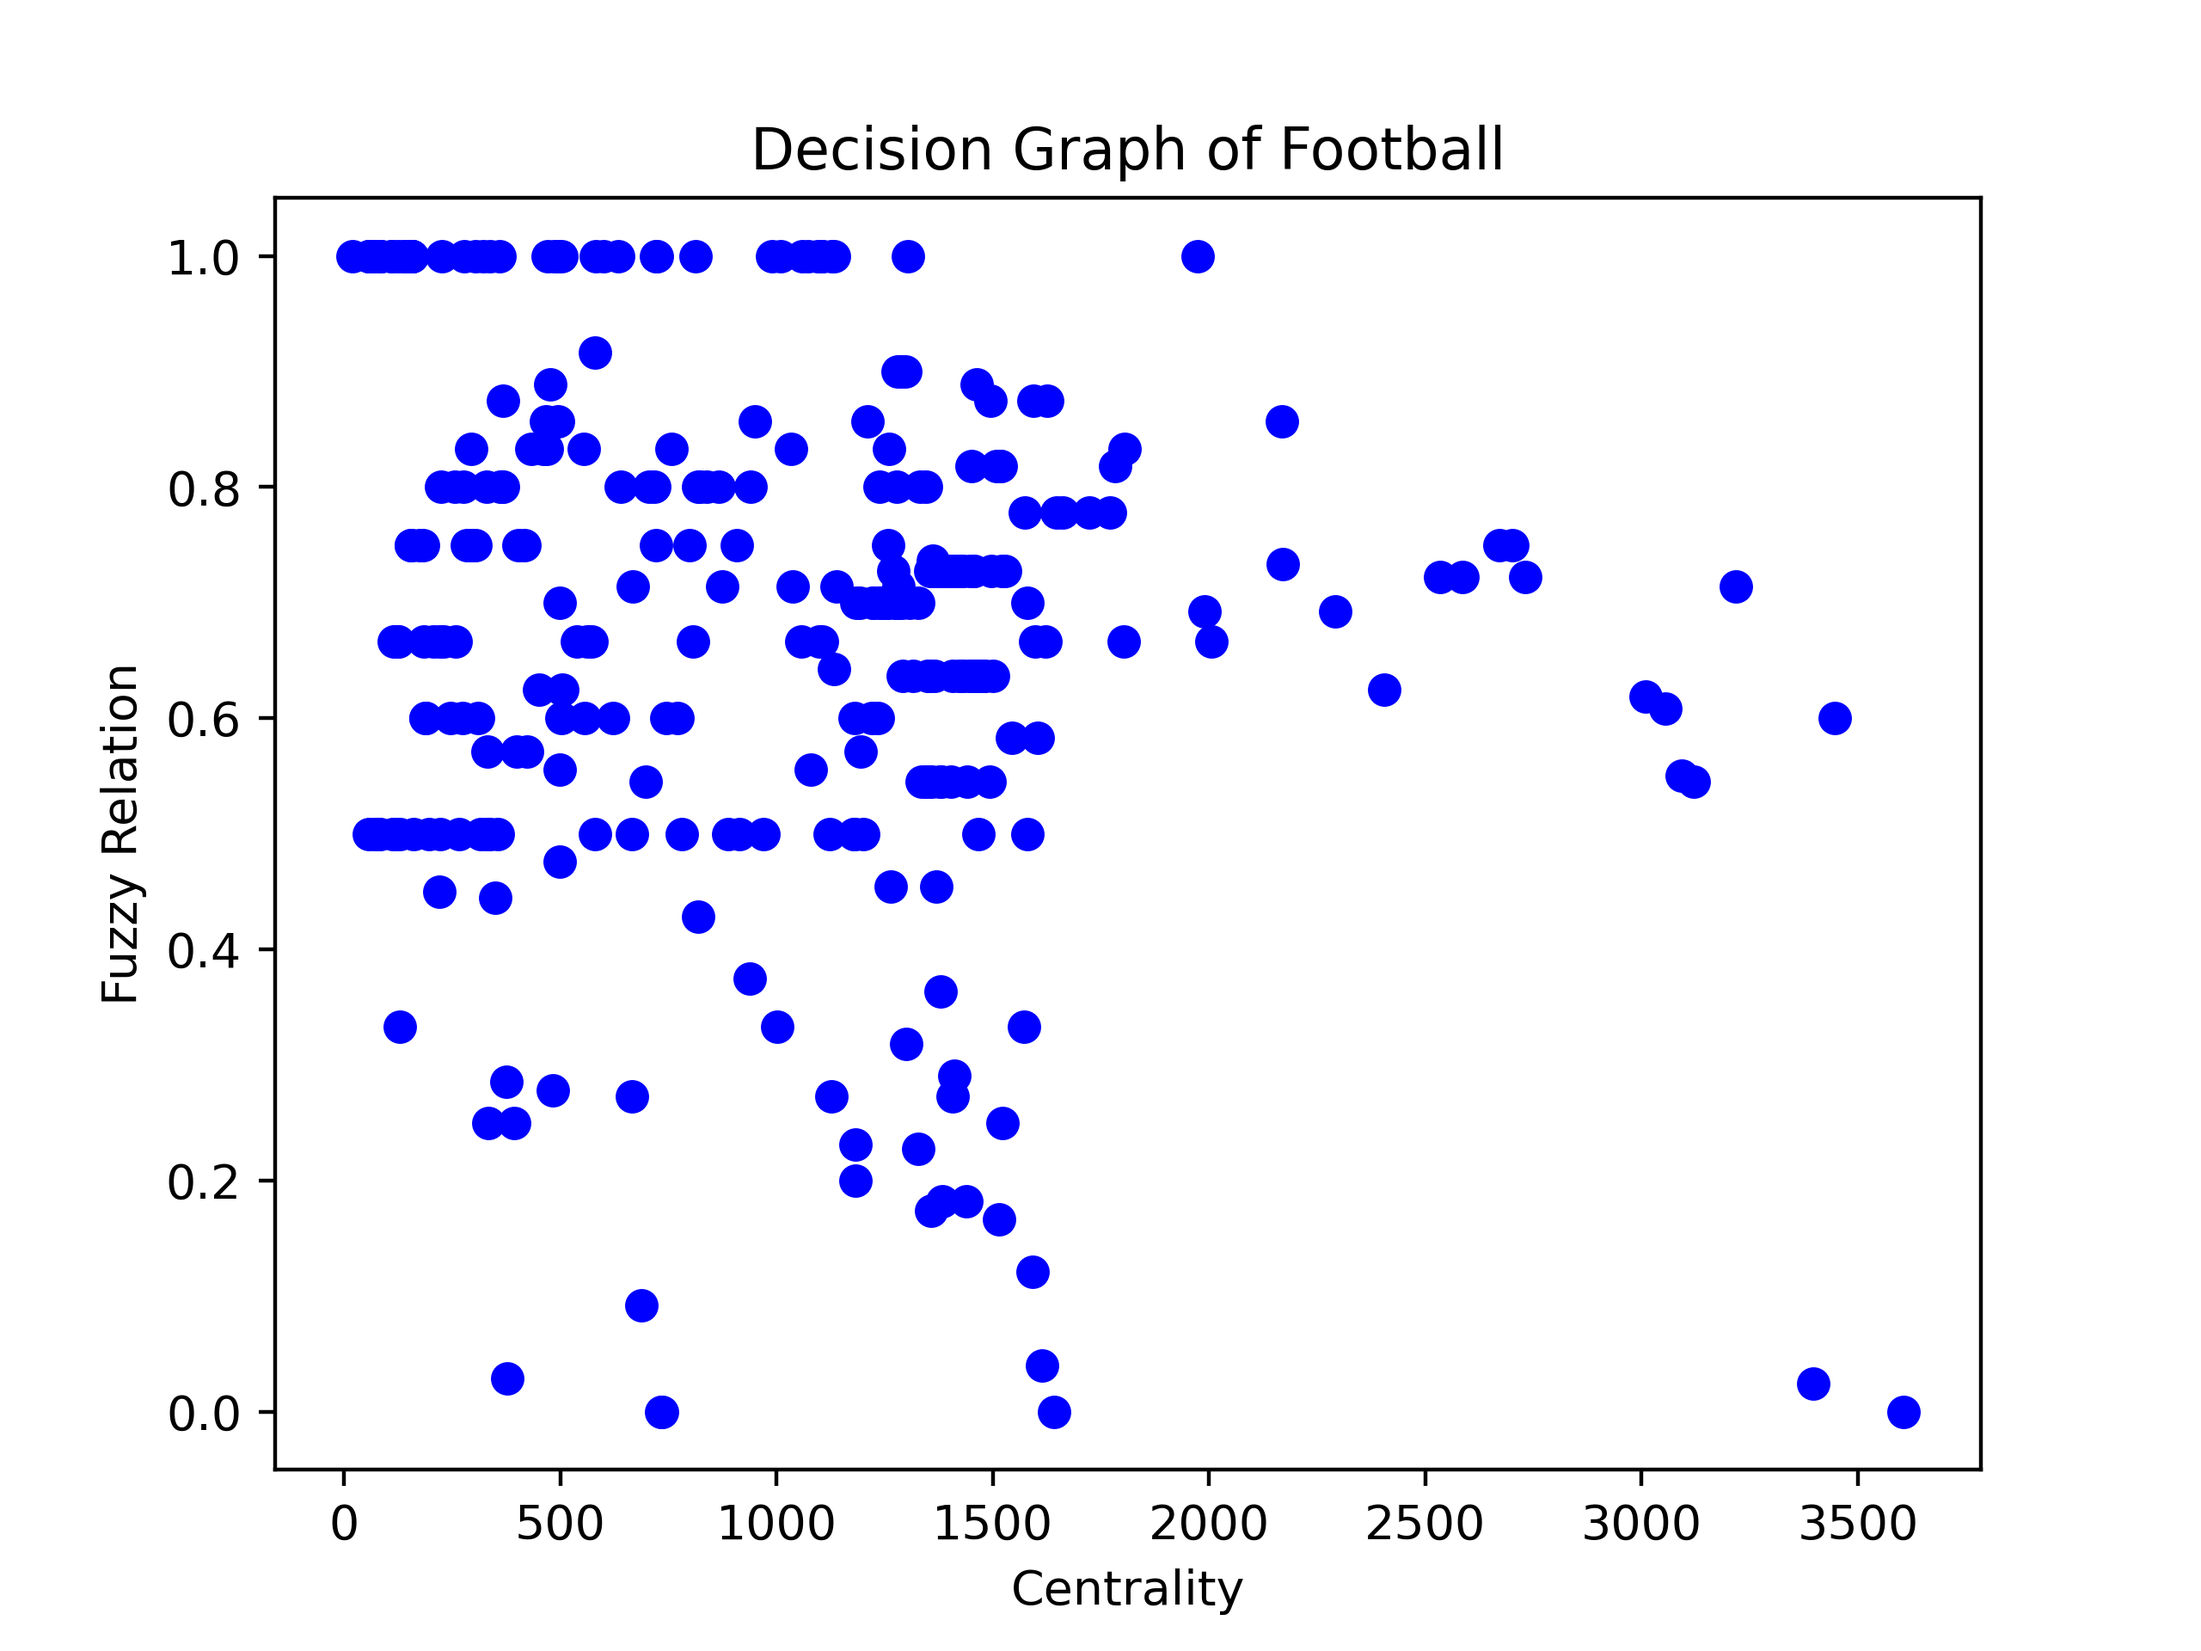
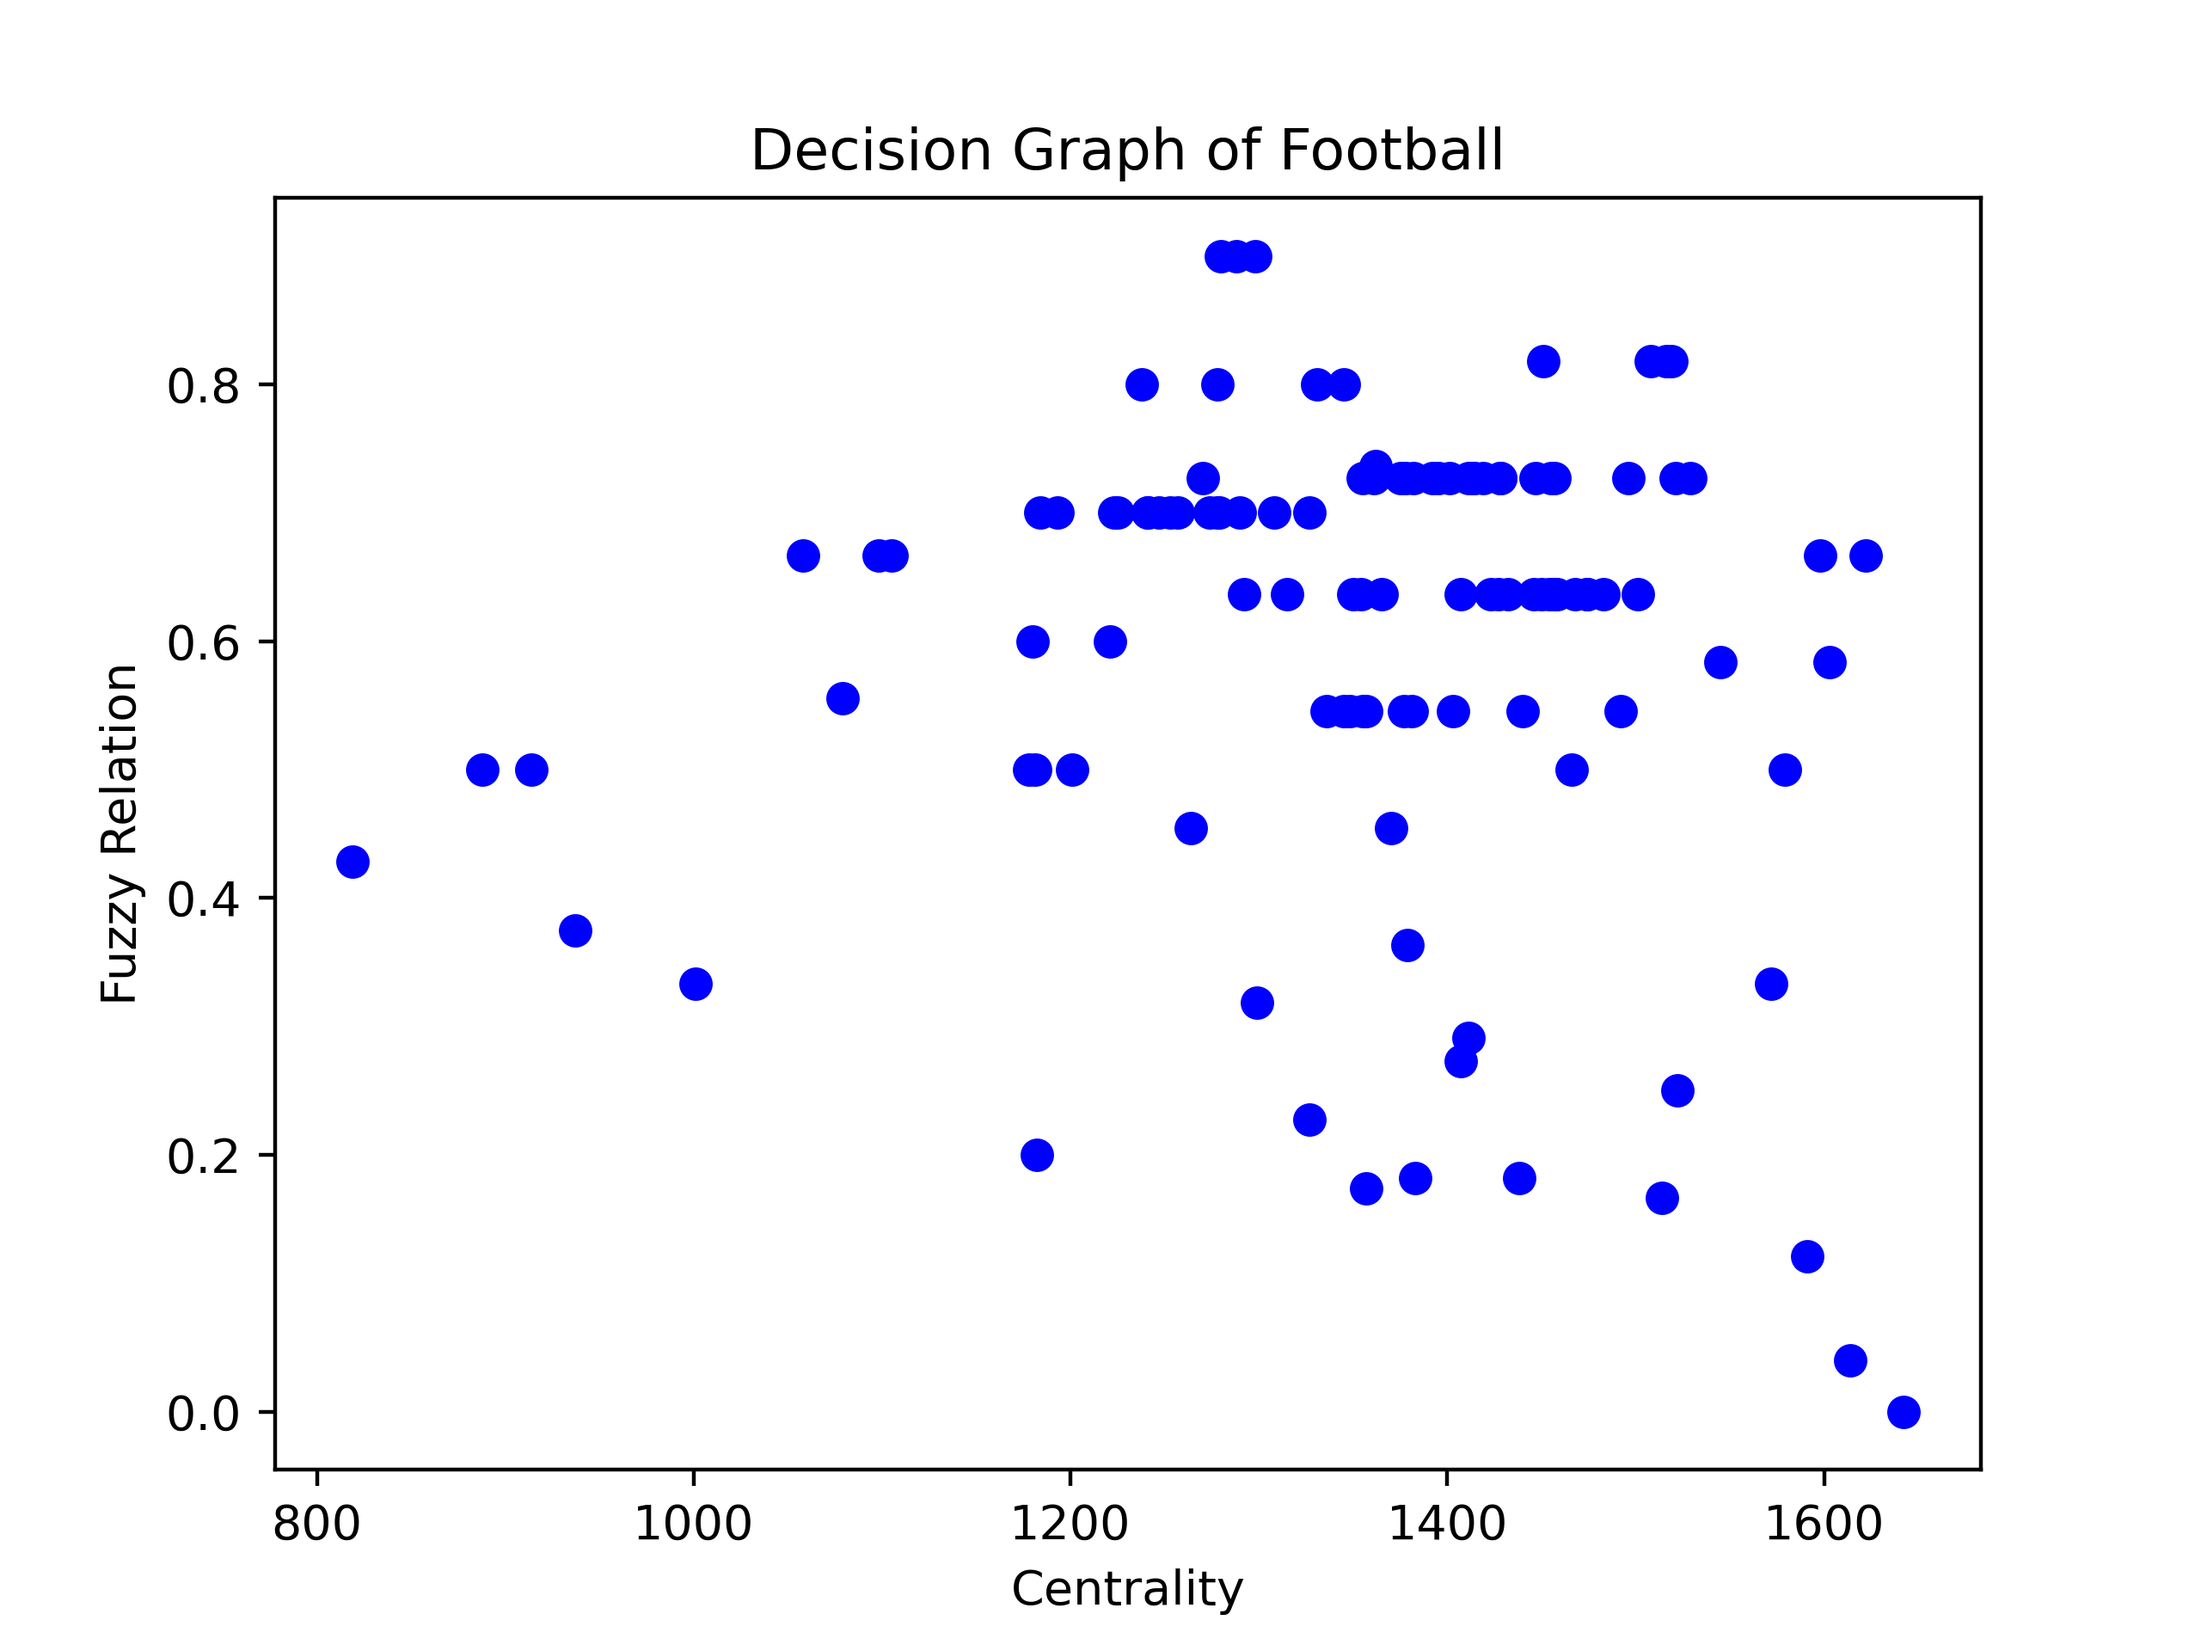
Updated decision graphs

diff --git a/community-detection.md b/community-detection.md
@@ -15,3 +15,9 @@ Community Graph Results of experiments on various datasets using the CDFR unrefi
 |<a href="https://frimps-astro.github.io/assets/images/communities/football_delta_0.35.png"><img width="100%" alt="Football: 15 Communities, Delta=0.35" src="https://frimps-astro.github.io/assets/images/communities/football_delta_0.35.png"> </a> Football: 15 Communities, Delta=0.35 |<a href="https://frimps-astro.github.io/assets/images/communities/football_delta_0.5.png"><img width="100%" alt="Football: 20 Communities, Delta=0.35" src="https://frimps-astro.github.io/assets/images/communities/football_delta_0.5.png"></a>  Football: 20 Communities, Delta=0.5 |
 
 Decision Graph Results
+
+| | | |
+|:-------------------------:|:-------------------------:|:-------------------------:|
+|<a href="https://frimps-astro.github.io/assets/images/decisions/dolphins_network_decision_graph.png"><img width="100%" alt="Decision Graph for Dolphins Network" src="https://frimps-astro.github.io/assets/images/decisions/dolphins_network_decision_graph.png"></a>  Decision Graph for Dolphins network |<a href="https://frimps-astro.github.io/assets/images/decisions/football_decision_graph.png"><img width="100%" alt="Decision Graph for Football Network" src="https://frimps-astro.github.io/assets/images/decisions/football_decision_graph.png"></a>  Decision Graph for Football network  | <a href="https://frimps-astro.github.io/assets/images/decisions/karate_club_decision_graph.png"><img width="100%" alt="Decision Graph for Karate Club" src="https://frimps-astro.github.io/assets/images/decisions/karate_club_decision_graph.png"></a>  Decision Graph for Karate Club 
+|<a href="https://frimps-astro.github.io/assets/images/decisions/us_politics_books_decision_graph.png"><img width="100%" alt="Decision Graph for Dolphins Network" src="https://frimps-astro.github.io/assets/images/decisions/us_politics_books_decision_graph.png"></a>  Decision Graph for US Politics Books | <a href="https://frimps-astro.github.io/assets/images/decisions/facebook_414_edges_decision_graph.png"><img width="100%" alt="Decision Graph for Facebook 414 Network" src="https://frimps-astro.github.io/assets/images/decisions/facebook_414_edges_decision_graph.png"></a>  Decision Graph for Facebook 414 | <a href="https://frimps-astro.github.io/assets/images/decisions/facebook_686_edges_decision_graph.png"><img width="100%" alt="Decision Graph for Facebook 686 Network" src="https://frimps-astro.github.io/assets/images/decisions/facebook_686_edges_decision_graph.png"></a>  Decision Graph for Facebook 686 
+| <a href="https://frimps-astro.github.io/assets/images/decisions/twitter_decision_graph.png"><img width="100%" alt="Decision Graph for Twitter Network" src="https://frimps-astro.github.io/assets/images/decisions/twitter_decision_graph.png"></a>  Decision Graph for Google+ | <a href="https://frimps-astro.github.io/assets/images/decisions/google_plus_decision_graph.png"><img width="100%" alt="Decision Graph for Twitter Network" src="https://frimps-astro.github.io/assets/images/decisions/google_plus_decision_graph.png"></a>  Decision Graph for Google+ |
